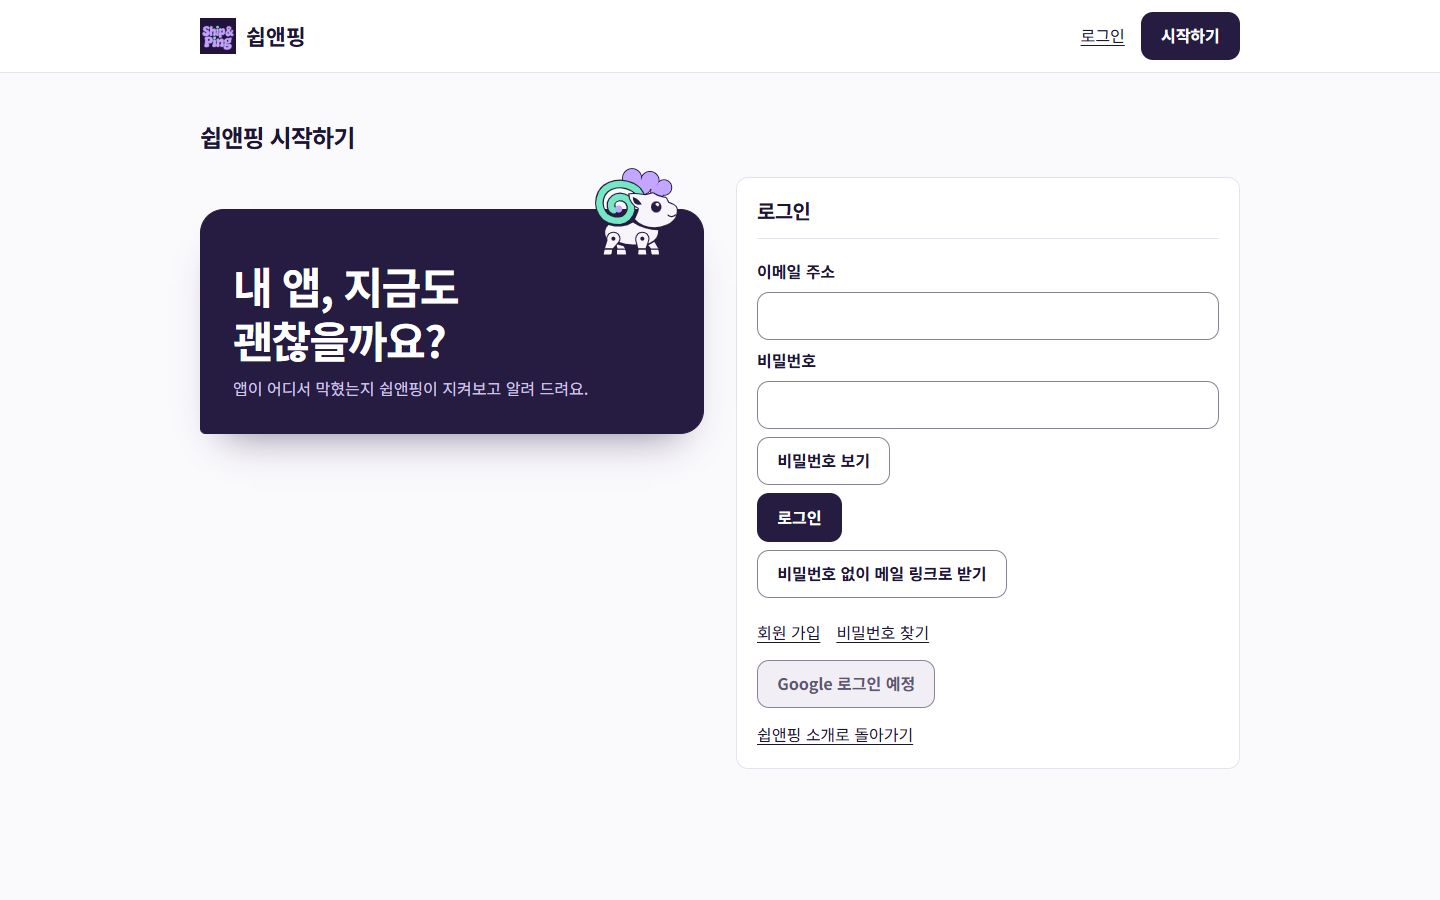
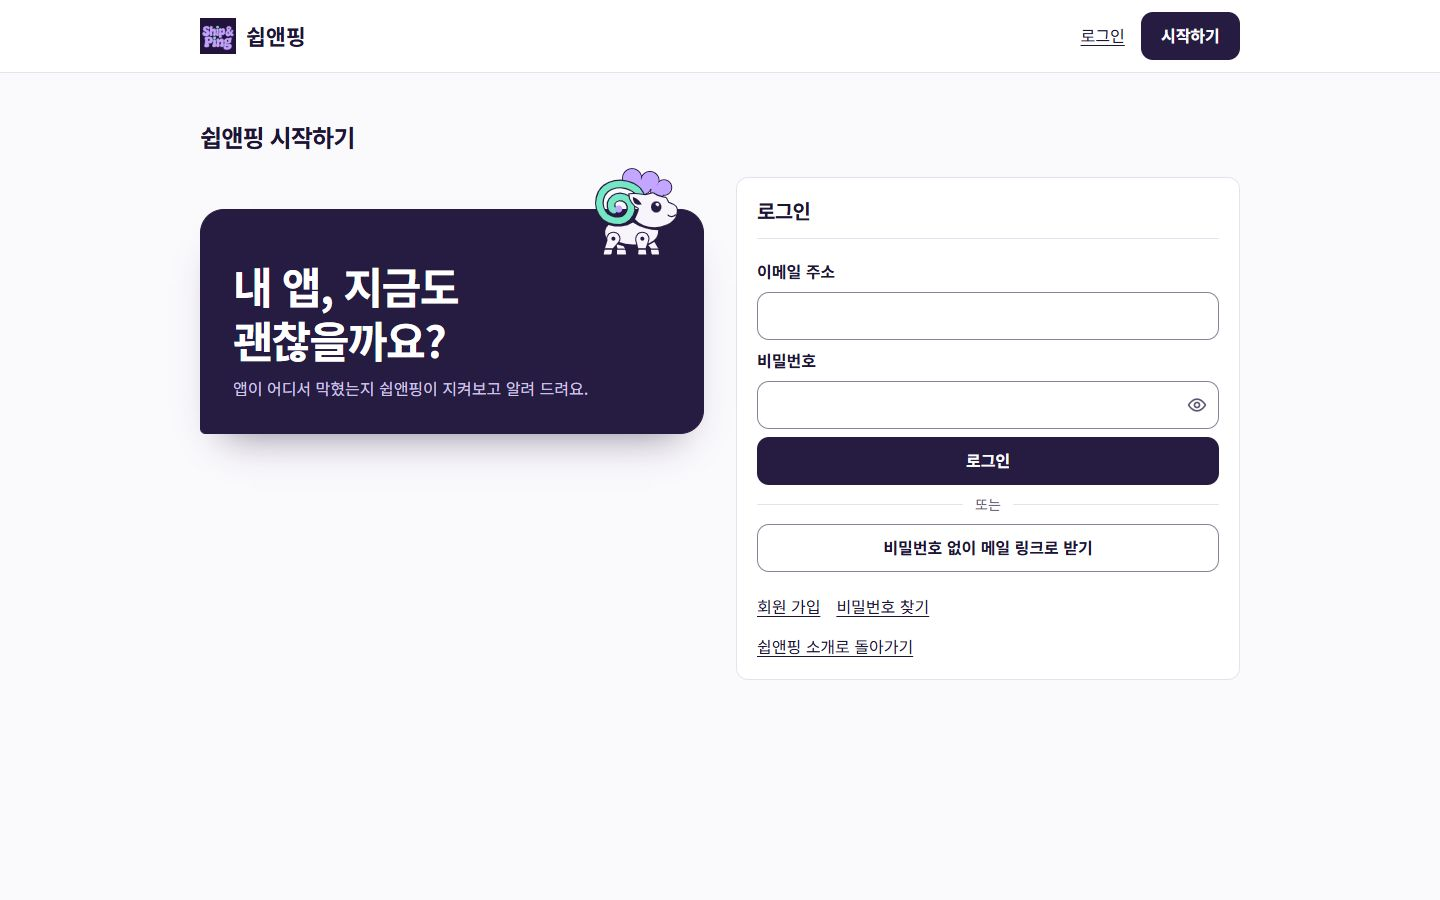
fix: T29 로그인·가입 화면 배치 다듬기

Changed region(s): [[0.5, 0.4356, 0.8438, 0.7778], [0.5312, 0.8089, 0.625, 0.84]]

diff --git a/web/src/AuthPage.tsx b/web/src/AuthPage.tsx
@@ -25,6 +25,7 @@ export function AuthForm({ api, mode, saved, expired }: { api: Gateway; mode: Mo
   const [invalidField, setInvalidField] = useState("");
   const errorId = useId();
   const hintId = useId();
+  const passwordId = useId();
   const fieldError = (name: string) => invalidField === name && error
     ? <p id={errorId} role="alert">{error}</p> : null;
   const newPassword = ["signup", "reset", "account"].includes(mode);
@@ -57,11 +58,11 @@ export function AuthForm({ api, mode, saved, expired }: { api: Gateway; mode: Mo
       setError(text);
       form.querySelector<HTMLInputElement>('[name="' + name + '"]')?.focus();
     }
-    if (emailField.current && !emailField.current.validity.valid) {
+    if (action !== "google" && emailField.current && !emailField.current.validity.valid) {
       invalid("email", "이메일 주소를 확인해 주세요.");
       return;
     }
-    if (action !== "link" && mode === "login" && !password) {
+    if (action !== "link" && action !== "google" && mode === "login" && !password) {
       invalid("password", "비밀번호를 적어 주세요.");
       return;
     }
@@ -87,7 +88,9 @@ export function AuthForm({ api, mode, saved, expired }: { api: Gateway; mode: Mo
     locked.current = true;
     setBusy(true);
     try {
-      if (action === "link") {
+      if (action === "google") {
+        await api.login();
+      } else if (action === "link") {
         await api.login(email.trim());
         setMessage("로그인 링크를 보냈어요. 메일이 안 오면 스팸함을 확인해 주세요.");
       } else if (mode === "login") {
@@ -135,6 +138,7 @@ export function AuthForm({ api, mode, saved, expired }: { api: Gateway; mode: Mo
       const offline = cause instanceof TypeError || status === 0;
       if (status === 429) setError("요청이 너무 많아요. 잠시 후 다시 시도해 주세요.");
       else if (offline) setError("인터넷 연결을 확인하고 다시 시도해 주세요.");
+      else if (action === "google") setError("Google 로그인을 시작하지 못했어요. 잠시 후 다시 시도해 주세요.");
       else if (mode === "login" && action !== "link") invalid("password", "이메일이나 비밀번호가 맞지 않아요");
       else setError(mode === "reset" ? "비밀번호를 저장하지 못했어요. 새 링크를 받아 다시 시도해 주세요."
         : newPassword ? "저장하지 못했어요. 다른 비밀번호로 다시 시도해 주세요."
@@ -144,24 +148,32 @@ export function AuthForm({ api, mode, saved, expired }: { api: Gateway; mode: Mo
       setBusy(false);
     }
   }
-  return <form aria-busy={busy} noValidate onSubmit={submit}>
+  return <form className="auth-form" aria-busy={busy} noValidate onSubmit={submit}>
     {["login","signup","forgot"].includes(mode) && <><label>이메일 주소
       <input name="email" aria-invalid={invalidField === "email"} aria-describedby={invalidField === "email" ? errorId : undefined} ref={emailField} required type="email" autoComplete="email"
         value={displayText(email,"login-email")} onChange={e => setEmail(e.target.value)}/>
     </label>{fieldError("email")}</>}
     {mode !== "forgot" && <>
-      <label>{newPassword ? "새 비밀번호" : "비밀번호"}
-        <input required name="password" aria-invalid={invalidField === "password"}
+      <label htmlFor={passwordId}>{newPassword ? "새 비밀번호" : "비밀번호"}</label>
+      <div className="auth-password">
+        <input id={passwordId} required name="password" aria-invalid={invalidField === "password"}
           aria-describedby={[newPassword && hintId, invalidField === "password" && errorId].filter(Boolean).join(" ") || undefined} type={visible ? "text" : "password"}
           minLength={newPassword ? 8 : undefined} autoComplete={newPassword ? "new-password" : "current-password"}/>
-      </label>
+        <button type="button" className="auth-toggle" aria-label={visible ? "비밀번호 숨기기" : "비밀번호 보기"}
+          aria-pressed={visible} onClick={() => setVisible(!visible)}>
+          <svg viewBox="0 0 24 24" fill="none" stroke="currentColor" strokeWidth="2" aria-hidden="true">
+            <path d="M2 12s3.5-7 10-7 10 7 10 7-3.5 7-10 7S2 12 2 12Z"/>
+            <circle cx="12" cy="12" r="3"/>
+            {visible && <path d="m3 3 18 18"/>}
+          </svg>
+        </button>
+      </div>
       {fieldError("password")}
       {newPassword && <>
         <small id={hintId}>8자 이상으로 적어 주세요. 생일이나 연속된 숫자는 쉽게 짐작할 수 있어요.</small>
         <label>비밀번호 확인<input required name="confirm" aria-invalid={invalidField === "confirm"} aria-describedby={invalidField === "confirm" ? errorId : undefined} type={visible ? "text" : "password"} autoComplete="new-password"/></label>
         {fieldError("confirm")}
       </>}
-      <button type="button" className="secondary" aria-pressed={visible} onClick={() => setVisible(!visible)}>비밀번호 보기</button>
     </>}
     {needsCode && <>
       <label>메일 인증번호<input ref={codeField} name="nonce" autoComplete="one-time-code" inputMode="numeric"
@@ -170,7 +182,12 @@ export function AuthForm({ api, mode, saved, expired }: { api: Gateway; mode: Mo
     </>}
     <button disabled={busy}>{busy ? "처리하는 중" : titles[mode]}</button>
     {needsCode && <button value="resend" className="secondary" disabled={busy}>번호 다시 받기</button>}
-    {mode === "login" && <button className="secondary" value="link" formNoValidate disabled={busy}>비밀번호 없이 메일 링크로 받기</button>}
+    {mode === "login" && <>
+      <div className="auth-divider" role="separator" aria-label="또는">또는</div>
+      <button className="secondary" value="link" formNoValidate disabled={busy}>비밀번호 없이 메일 링크로 받기</button>
+      {import.meta.env.VITE_GOOGLE_LOGIN_ENABLED === "true" &&
+        <button className="secondary" value="google" formNoValidate disabled={busy}>Google로 로그인</button>}
+    </>}
     <p role="status">{message}</p>
     {!invalidField && error && <p role="alert">{error}</p>}
   </form>;
@@ -189,7 +206,6 @@ export function AuthPage({ api, mode, recovery = false, expired }: { api: Gatewa
             : <AuthForm key={mode} api={api} mode={mode} expired={expired}/>}
           {mode === "login" && <>
             <div className="actions"><Link to="/signup">회원 가입</Link><Link to="/forgot-password">비밀번호 찾기</Link></div>
-            <p><button type="button" className="secondary" disabled>Google 로그인 예정</button></p>
           </>}
           {mode === "reset" && <p><Link to="/forgot-password">재설정 메일 다시 받기</Link></p>}
           <Link to={mode === "login" ? "/" : "/login"}>{mode === "login" ? "쉽앤핑 소개로 돌아가기" : "로그인으로 돌아가기"}</Link>

diff --git a/web/src/onboarding.test.tsx b/web/src/onboarding.test.tsx
@@ -70,6 +70,43 @@ function fake(user: string | null = "member"): Gateway {
     save: vi.fn(async () => []),
   };
 }
+it("로그인은 기본 제출이고 메일 링크는 구분선 다음 보조 행동이다", async () => {
+  vi.stubEnv("VITE_GOOGLE_LOGIN_ENABLED", "");
+  try {
+    open("/login", fake(null));
+    const primary = await screen.findByRole("button", {name:"로그인"});
+    const divider = screen.getByRole("separator", {name:"또는"});
+    const mail = screen.getByRole("button", {name:/메일 링크로 받기/});
+    expect(primary.compareDocumentPosition(divider) & Node.DOCUMENT_POSITION_FOLLOWING).toBeTruthy();
+    expect(divider.compareDocumentPosition(mail) & Node.DOCUMENT_POSITION_FOLLOWING).toBeTruthy();
+    expect(mail.classList.contains("secondary")).toBe(true);
+    expect(screen.queryByRole("button", {name:/Google/})).toBeNull();
+  } finally { vi.unstubAllEnvs(); }
+});
+it("설정된 Google 보조 버튼은 이메일 없이 인증을 시작한다", async () => {
+  vi.stubEnv("VITE_GOOGLE_LOGIN_ENABLED", "true");
+  try {
+    const api = fake(null);
+    open("/login", api);
+    const google = await screen.findByRole("button", {name:"Google로 로그인"});
+    expect(google.classList.contains("secondary")).toBe(true);
+    fireEvent.click(google);
+    await waitFor(() => expect(api.login).toHaveBeenCalledWith());
+  } finally { vi.unstubAllEnvs(); }
+});
+it("비밀번호 토글은 초점과 입력값을 유지하고 표시 상태를 읽어 준다", async () => {
+  open("/login", fake(null));
+  const field = await screen.findByLabelText<HTMLInputElement>("비밀번호");
+  const toggle = screen.getByRole("button", {name:"비밀번호 보기", pressed:false});
+  fireEvent.change(field, {target:{value:"test-only"}});
+  toggle.focus();
+  fireEvent.click(toggle);
+  expect(screen.getByRole("button", {name:"비밀번호 숨기기", pressed:true})).toBe(document.activeElement);
+  expect(field.type).toBe("text");
+  fireEvent.click(toggle);
+  expect(field.type).toBe("password");
+  expect(field.value).toBe("test-only");
+});
 it("잘못된 로그인은 계정 유무를 드러내지 않는다", async () => {
   const api = fake(null);
   vi.mocked(api.passwordLogin).mockRejectedValue(Error());
@@ -784,7 +821,7 @@ describe("연결 요청문과 등록 입력", () => {
 it("로그인하지 않은 내 앱 방문자를 로그인으로 보낸다", async () => {
   const api = fake(null);
   const { container } = open("/apps", api);
-  await screen.findByRole("button", { name: /Google/ });
+  await screen.findByRole("button", { name: "로그인" });
   expect(api.apps).not.toHaveBeenCalled();
   expect(
     (await axe(container, { rules: { "color-contrast": { enabled: false } } }))

diff --git a/web/src/styles/app.css b/web/src/styles/app.css
@@ -839,6 +839,35 @@ h1[tabindex="-1"]:focus { outline: none; }
 .cols aside ol { margin: 0; padding-left: 1.5rem; }
 .cols aside li { padding: .5rem .25rem; }
 .public .panel form { border-top: 1px solid var(--sp-line); padding-top: 1.25rem; }
+.auth-form > button { width: 100%; }
+.auth-password { position: relative; }
+.auth-password input {
+  width: 100%;
+  padding-inline-end: calc(var(--sp-touch) + var(--sp-space-2));
+}
+.auth-toggle {
+  position: absolute;
+  inset-block: 0;
+  inset-inline-end: 0;
+  width: var(--sp-touch);
+  padding: 0;
+  background: transparent;
+  color: var(--sp-ink-2);
+}
+.auth-toggle:focus-visible { outline-offset: calc(-1 * var(--sp-space-1)); }
+.auth-toggle svg { width: var(--sp-space-5); height: var(--sp-space-5); }
+.auth-divider {
+  display: flex;
+  align-items: center;
+  gap: var(--sp-space-3);
+  color: var(--sp-ink-2);
+  font-size: var(--sp-text-sm);
+}
+.auth-divider::before, .auth-divider::after {
+  content: "";
+  flex: 1;
+  border-top: 1px solid var(--sp-line);
+}
 .public .panel > a { justify-self: start; }
 .workspace > label:has(select) { max-width: 28rem; }
 .workspace select { min-height: 44px; padding: .5rem .75rem; font: inherit; color: var(--sp-ink); background: var(--sp-surface); border: 1px solid var(--sp-line-strong); border-radius: var(--sp-radius-sm); }

diff --git a/prompts/tasks/T29.md b/prompts/tasks/T29.md
@@ -1,0 +1,17 @@
+# 쉽앤핑 T29 — 로그인·가입 화면 다듬기
+
+너는 Orca 작업 에이전트(Codex)다. 새 작업 폴더에서 일하고 PR까지 만든다. **머지 금지.**
+명령은 경로를 그대로 하나씩(셸 변수·명령 치환·인터프리터 한 줄 실행 금지), 파일은 Read·Write(편집) 도구로.
+동시에 T24(PR #23)가 정제 규칙(`worker/`, `supabase/`, `web/src/normalize.ts`·`display*`·`issue-prompt.ts`, 시험표)을 고친다 — 건드리지 않는다. 네 범위: `web/src/AuthPage.tsx`와 관련 스타일·테스트, `web/src/styles/app.css`(로그인 관련 부분만), `docs/design/screens/`의 로그인 관련 장면 재촬영, `prompts/tasks/T29.md`, 위임 로그 T29 행.
+
+## 매니저가 캡처(docs/design/screens/02-1440.jpg 등)에서 본 문제
+- "비밀번호 보기"가 큰 별도 버튼이라 로그인 버튼과 위계가 같아 보인다 → 비밀번호 칸 **안 오른쪽의 작은 토글**(아이콘+화면 읽기용 이름 "비밀번호 보기/숨기기", aria-pressed)로.
+- 버튼이 세로로 제각각 폭(로그인·메일 링크·Google)이라 어수선하다 → 주 행동 [로그인]은 칸 폭 전체, 그 아래 "또는" 구분선, 보조 행동(메일 링크로 받기, Google)은 같은 폭의 보조 버튼, 회원 가입·비밀번호 찾기는 한 줄 링크.
+- "Google 로그인 예정"이 눌리지 않는 버튼처럼 보인다 → 운영 Google 설정 전에는 숨기거나, 보이려면 이유가 있는 안내 문구로(매니저 추천: 설정 전 숨김, 환경 변수나 설정 값으로 켬).
+- 가입·비밀번호 찾기·재설정 화면도 같은 규칙으로 맞춘다.
+
+## 지킬 것
+쉽앤핑 토큰만, 한글 줄바꿈, 390px·키보드·초점·자동 완성 속성 유지, 계정 존재 비노출·비밀번호 비제어 입력 유지(T22 규칙), 기능 동작 변경 없음. 테스트 먼저(토글 aria-pressed·초점, 버튼 위계, Google 숨김 조건). `npm run qa:shots`로 로그인·가입·찾기·재설정 장면을 다시 찍어 `docs/design/screens/`와 README 썸네일이 최신이 되게.
+
+## PR
+브랜치 `fix/T29-auth-layout`, 커밋은 레포 규칙 타입, PR 제목 `fix: T29 로그인·가입 화면 배치 다듬기`. 테스트·빌드·`gh pr checks` 통과. 머지 금지. **끝나면 반드시 worker_done**.

diff --git a/docs/위임로그/김태형.md b/docs/위임로그/김태형.md
@@ -283,3 +283,9 @@
 | 목표 | 프롬프트 | 결과 | 검증 | 수정 | 배운 점 |
 |---|---|---|---|---|---|
 | 최신 main의 회원 흐름을 PC와 휴대폰에서 확인 | [T28 지시문](../../prompts/tasks/T28.md) | 31개 장면을 README에서 PC 썸네일과 휴대폰 링크로 제공 | 밝은 테마 1440px·390px에서 JPEG 62장 생성, 실제 너비·README 경로 확인, 최대 284,846바이트 | 가짜 인증 서버의 재인증 오류 코드를 클라이언트가 인식하는 형식으로 고쳐 메일 번호 입력까지 재현 | 탈퇴 진행과 실패는 같은 확인 버튼에서 서버 응답을 달리해야 각각 검증할 수 있다. |
+
+## T29 로그인·가입 화면 배치
+
+| 목표 | 프롬프트 | 결과 | 검증 | 수정 | 배운 점 |
+|---|---|---|---|---|---|
+| 로그인 수단의 우선순위와 비밀번호 표시 상태를 명확히 한다 | [T29 지시문](../../prompts/tasks/T29.md) | 입력 칸 안쪽 토글과 같은 폭의 인증 버튼을 적용했다. 빌드 시 VITE_GOOGLE_LOGIN_ENABLED=true를 지정하면 기존 Google OAuth 경로가 열린다. | 새 테스트 3건의 수정 전 실패 확인, 전체 웹 테스트 231건·빌드·린트 통과, 390px·1440px 6개 장면 재촬영 | 보호 경로 리디렉션 테스트가 로그인 버튼으로 도착을 확인하도록 수정했다. | Google OAuth는 이메일 입력 없이 시작하므로 메일과 비밀번호 검증을 건너뛰어야 한다. |
